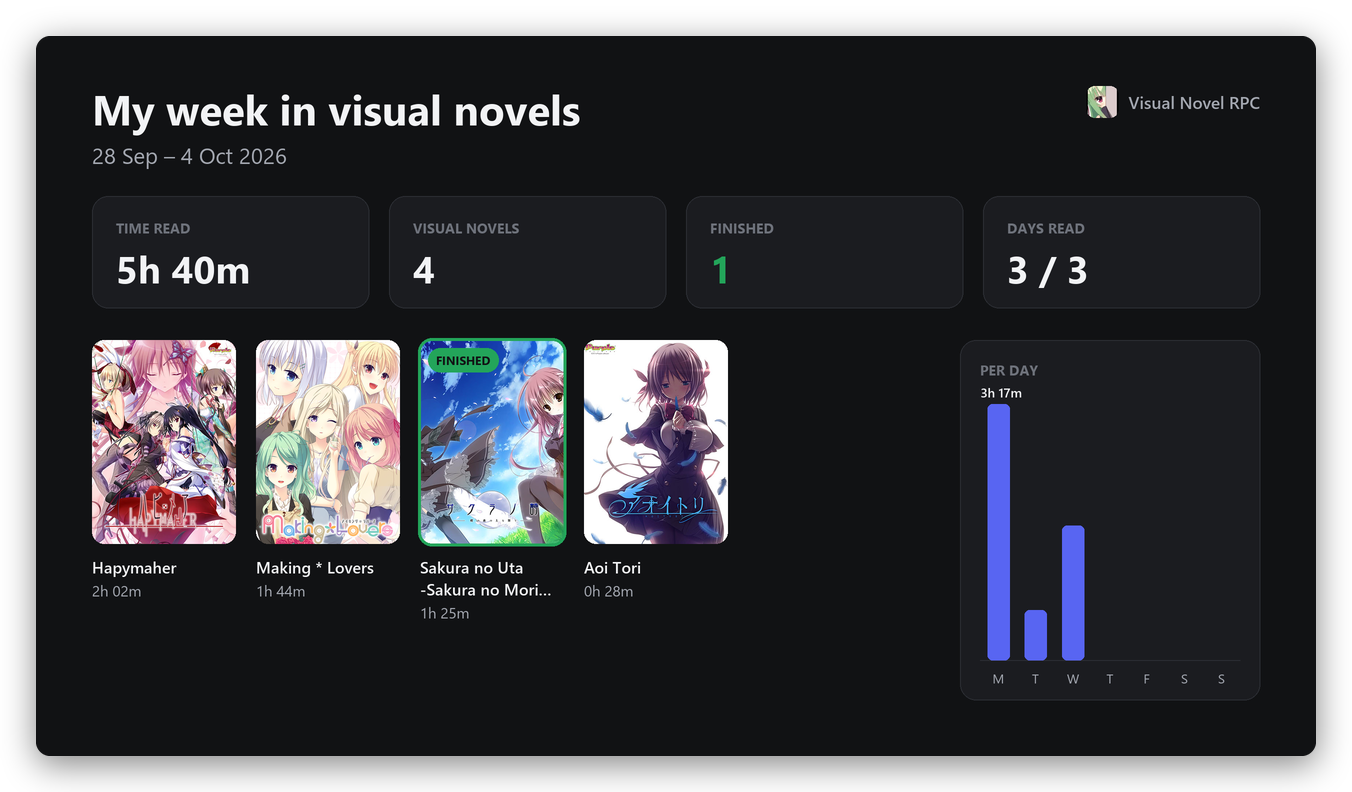
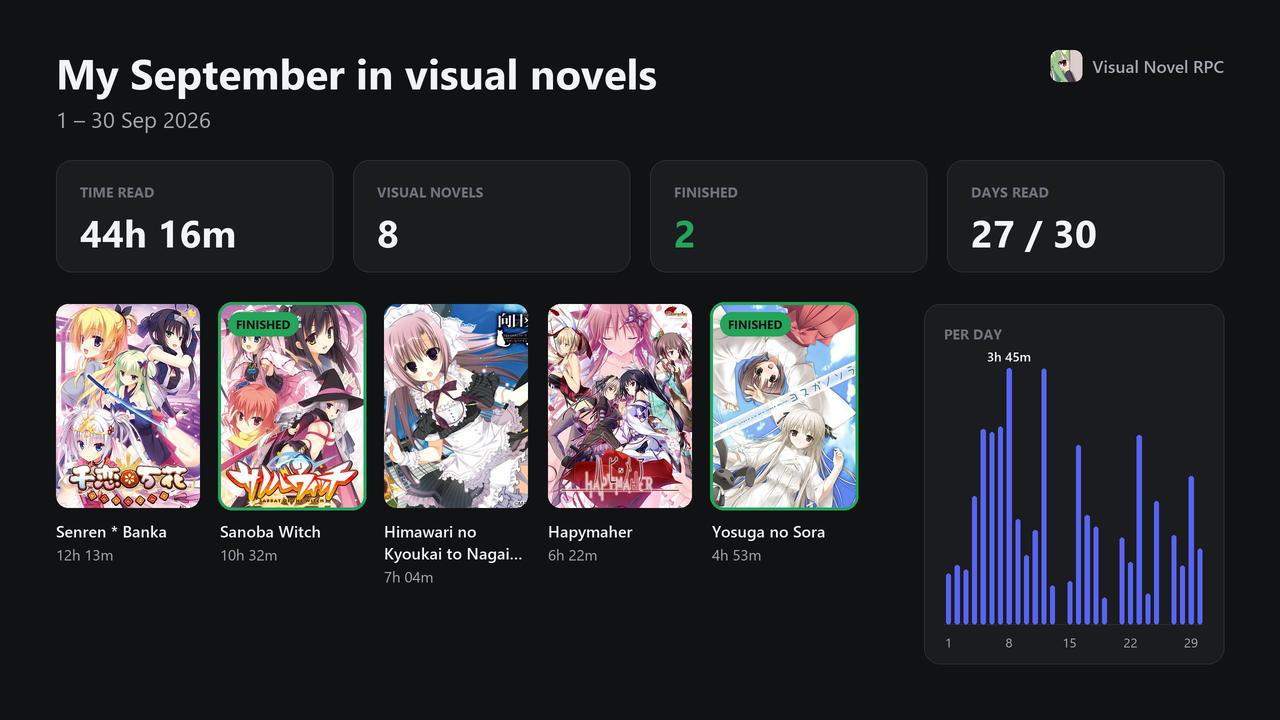
New README: real Discord status, fresh screenshots, link to the docs
- The top image is a real Discord status (Subarashiki Hibi) instead of
  the old preview, with Download / Documentation / Troubleshooting links.
- Screenshots retaken on the current app: now reading, Library, a VN's
  page, the gallery, a share card, the random wishlist pick, six themes
  and the desktop mascot.
- Shorter text: features and install up front, each section linking to
  its page on vnrpc-docs.vercel.app, a Documentation section listing the
  guides, and source / build / tests / data folders kept brief.

diff --git a/README.md b/README.md
@@ -1,66 +1,79 @@
 # Visual Novel RPC
 
-Show the visual novel you're reading on your **Discord profile**: game name, current chapter or route, time read and cover.
+Show the visual novel you're reading on your **Discord profile**: the game, your current chapter or route, the time read and its cover.
 
-![Preview](image/preview.png)
+<p align="center"><img src="image/discord-status.png" width="420" alt="Discord status: Subarashiki Hibi, Reading — Wonderful Everyday, Total read: 35h 05m"></p>
 
-Windows tray app. It reads the title of the VN's window, so it works with most engines without any setup.
+<p align="center">
+  <a href="https://github.com/lennmoe/vnrpc/releases/latest"><b>Download</b></a> ·
+  <a href="https://vnrpc-docs.vercel.app/"><b>Documentation</b></a> ·
+  <a href="https://vnrpc-docs.vercel.app/troubleshooting/">Troubleshooting</a>
+</p>
+
+A small Windows tray app. It reads the title of the VN's window, so most engines work without any setup. One `.exe`, nothing else to install.
 
 ## Features
 
-- **Auto-detects the VN** you're playing (Ren'Py, KiriKiri, Siglus, Unity, …), or lets you pick the window by hand.
-- **Shows where you are**: prologue, chapter, route, ending… read straight from the window title (EN / FR / JP).
-- **Tracks time read** per VN, saved between sessions.
-- **Covers** from VNDB, an image URL or a local file, with a built-in crop tool.
-- **Steam names**: installed Steam games get their proper name automatically.
-- **Library** of every VN you've played, with time read and a Play button.
-- **Random pick from your VNDB wishlist** when you can't decide what to read next (needs your VNDB token).
-- **Share stats**: a "My week / my month in visual novels" card (covers, time read, VNs finished), copied as an image to paste on Discord.
-- **Japanese locale**: set a VN to start through Locale Emulator or NTLEA, and Play launches it that way.
-- **Screenshots**: press Print Screen while reading to capture the game's window. Each VN gets its own folder, and its page in the Library shows them; the gallery copies, opens or deletes them.
-- **Idle mode** (optional): when the VN stays in the background, your Discord status clears and the timers stop until you go back to it.
-- **Export / import your data** (settings, Library, time read, custom covers) as one file, e.g. to move to another PC.
-- **Desktop mascot** (optional, ukagaka style): a character on your desktop that comments on what you read. Use the built-in one or your own transparent PNG.
-- **Privacy per game**: Full, Partial (no chapter), Private (just "Visual Novel") or Off.
-- NSFW covers are blurred and never sent to Discord unless you allow it.
-- Optional **launch at Windows startup**.
+- **Finds the VN by itself** (Ren'Py, KiriKiri, SiglusEngine, Unity…), or you pick the window by hand.
+- **Shows where you are**: prologue, chapter, route or ending, read from the window title (English, French, Japanese).
+- **Tracks time read** for each VN, with a day-by-day history. You can also set it by hand.
+- **Covers** from VNDB, an image link or a file on your PC, with a crop tool.
+- **Privacy per game**: everything, no chapter, just "Visual Novel", or nothing. NSFW covers stay blurred and off Discord unless you allow them.
+- **Library** of every VN you've read, with a page for each one: status, rating, reading chart, screenshots and a Play button.
+- **Screenshots** of the game window with one key, sorted by VN, in a built-in gallery.
+- **Share card**: "My week / my month in visual novels", copied as an image to paste on Discord.
+- **VNDB list sync**, and a **random pick from your VNDB wishlist** when you can't decide what to read next.
+- **Japanese locale**: start a VN through Locale Emulator or NTLEA from its Play button.
+- **Themes**: Dark, Light, Sakura, Dracula, Nord, Catppuccin, Tokyo Night, Gruvbox, Rosé Pine, Solarized… or your own colors.
+- **Desktop mascot** (optional, ukagaka style) who comments on what you read.
+- **Idle mode**, **export / import** of your data, **launch at startup**, and **updates** in one click.
 
 ## Screenshots
 
-<p align="center"><img src="image/main.png" width="680" alt="Main window: the VN being read and a preview of the Discord status"></p>
+**Now reading** — the VN being read, and exactly what your friends see on Discord. [Docs](https://vnrpc-docs.vercel.app/now-reading/)
 
-**Library** — every VN you've read, and a page per VN with its status, VNDB rating, reading history and screenshots.
+<p align="center"><img src="image/now-reading.png" width="820" alt="Now reading: Senren * Banka, Chapter 4 — Yoshino Route, and the Discord preview"></p>
 
-<p align="center"><img src="image/library.png" width="680" alt="Library"></p>
-<p align="center"><img src="image/vn-page.png" width="820" alt="A VN's page in the Library"></p>
+**Library** — every VN you've read, and a page for each one with its reading history. [Docs](https://vnrpc-docs.vercel.app/library/)
 
-**Screenshots** — press Print Screen in game; browse, copy or delete them in the gallery.
+<p align="center"><img src="image/library.png" width="820" alt="Library"></p>
+<p align="center"><img src="image/vn-page.png" width="820" alt="A VN's page: time read, chart, status and screenshots"></p>
+
+**Screenshots** — one key in game; browse, copy or delete them in the gallery. [Docs](https://vnrpc-docs.vercel.app/screenshots/)
 
 <p align="center"><img src="image/gallery.png" width="820" alt="Screenshot gallery"></p>
 
-**Share your week** — a card to paste on Discord.
+**Share card** — your week or month in visual novels, ready to paste on Discord. [Docs](https://vnrpc-docs.vercel.app/share/)
 
-<p align="center"><img src="image/share-card.png" width="720" alt="My week in visual novels card"></p>
+<p align="center"><img src="image/share-card.png" width="720" alt="My September in visual novels"></p>
 
-**Themes** — pick one with a click: Dark, Light, Sakura, popular schemes (Dracula, Nord, Catppuccin, Tokyo Night, Gruvbox, Rosé Pine, Solarized…), or your own colors.
+**Random pick** — can't decide? Draw a VN from your VNDB wishlist. [Docs](https://vnrpc-docs.vercel.app/vndb/)
 
-<p align="center"><img src="image/themes.png" width="900" alt="The main window in the Dark, Sakura and Lilac themes"></p>
+<p align="center"><img src="image/wishlist.png" width="820" alt="Random pick from the VNDB wishlist: Fate/stay night"></p>
+
+**Themes** — pick one with a click, or make your own. [Docs](https://vnrpc-docs.vercel.app/themes/)
+
+<p align="center"><img src="image/themes.png" width="900" alt="The app in the Sakura, Dracula, Nord, Catppuccin Latte, Tokyo Night and Neon Mint themes"></p>
+
+**Desktop mascot** — a character who stands on your desktop and talks about what you read. Bring your own PNG if you like. [Docs](https://vnrpc-docs.vercel.app/mascot/)
+
+<p align="center"><img src="image/mascot.png" width="820" alt="The desktop mascot over a game, saying “Chapter 4 — Yoshino Route... here we go!”"></p>
 
 ## Install
 
-Download `VisualNovelRPC.exe` and run it. Nothing else is needed.
+1. Download [`VisualNovelRPC.exe`](https://github.com/lennmoe/vnrpc/releases/latest) and run it.
+2. Keep the Discord desktop app open, with **Settings → Activity Privacy → Share your detected activities** turned on.
 
-Discord desktop must be open, with **Settings → Activity Privacy → Share your detected activities** turned on.
+The app updates itself: it checks for a new release when it starts and shows what changed after an update. Full guide: [Install](https://vnrpc-docs.vercel.app/install/).
 
-The app checks for a new release each time it starts and offers to update itself (you can turn that off in **Settings → App**). After an update, a **What's new** page shows what changed (also in **Settings → App**).
+## Documentation
 
-## Use your own Discord app (optional)
+Everything is explained on **[vnrpc-docs.vercel.app](https://vnrpc-docs.vercel.app/)**:
 
-The app already works out of the box. If you want your own name and default image on Discord:
-
-1. Create an application at <https://discord.com/developers/applications>.
-2. Paste its **Application ID** in the app under **Settings → Discord Application ID**.
-3. In **Rich Presence → Art Assets**, upload an image named `vn_cover`. It's shown when a cover can't be displayed on Discord (local files and cropped images).
+- [Discord status & privacy](https://vnrpc-docs.vercel.app/discord-status/) and [chapters & routes](https://vnrpc-docs.vercel.app/chapters/)
+- [Covers](https://vnrpc-docs.vercel.app/covers/), [Library](https://vnrpc-docs.vercel.app/library/), [Screenshots](https://vnrpc-docs.vercel.app/screenshots/), [Share card](https://vnrpc-docs.vercel.app/share/)
+- [VNDB list & wishlist](https://vnrpc-docs.vercel.app/vndb/), [Japanese locale](https://vnrpc-docs.vercel.app/japanese-locale/), [Themes](https://vnrpc-docs.vercel.app/themes/), [Desktop mascot](https://vnrpc-docs.vercel.app/mascot/)
+- [All settings](https://vnrpc-docs.vercel.app/settings/), [Your data & backups](https://vnrpc-docs.vercel.app/data/), [Troubleshooting](https://vnrpc-docs.vercel.app/troubleshooting/)
 
 ## Run from source
 
@@ -71,32 +84,26 @@ pip install -r requirements.txt
 python -m vnrpc
 ```
 
-## Build the .exe
+Build the `.exe` (close the app first; the result is `dist\VisualNovelRPC.exe`):
 
 ```
 pip install -r requirements-dev.txt
 python build.py
 ```
 
-The result is `dist\VisualNovelRPC.exe`. Close the app before building.
-
-## Tests
+Tests:
 
 ```
 python -m pytest -q
 python tools/fake_vn_window.py --title "Grisaia no Kajitsu - Yumiko Route - Chapter 4"
 ```
 
-`fake_vn_window.py` opens a dummy window so you can test detection without a real VN.
+`fake_vn_window.py` opens a dummy window to test detection without a real VN. More in [Run from source](https://vnrpc-docs.vercel.app/from-source/).
 
-## Where settings are saved
+## Where your data is
 
-Everything is in `%APPDATA%\VisualNovelRPC\`:
+Everything is in `%APPDATA%\VisualNovelRPC\`: `config.yaml` (settings), `games\<title>.yaml` (one file per VN, safe to edit) and `cache\`. Screenshots go to `Pictures\Visual Novel RPC\<VN title>\` unless you pick another folder. See [Your data & backups](https://vnrpc-docs.vercel.app/data/).
 
-| File | What |
-|---|---|
-| `config.yaml` | app settings |
-| `games\<title>.yaml` | one file per VN (safe to edit or rename) |
-| `cache\` | VNDB results, covers and screenshot thumbnails |
+---
 
-Screenshots go to `Pictures\Visual Novel RPC\<VN title>\` (you can pick another folder in Settings).
+<sub>Covers and game screenshots in these images come from [VNDB](https://vndb.org) and belong to their publishers.</sub>
